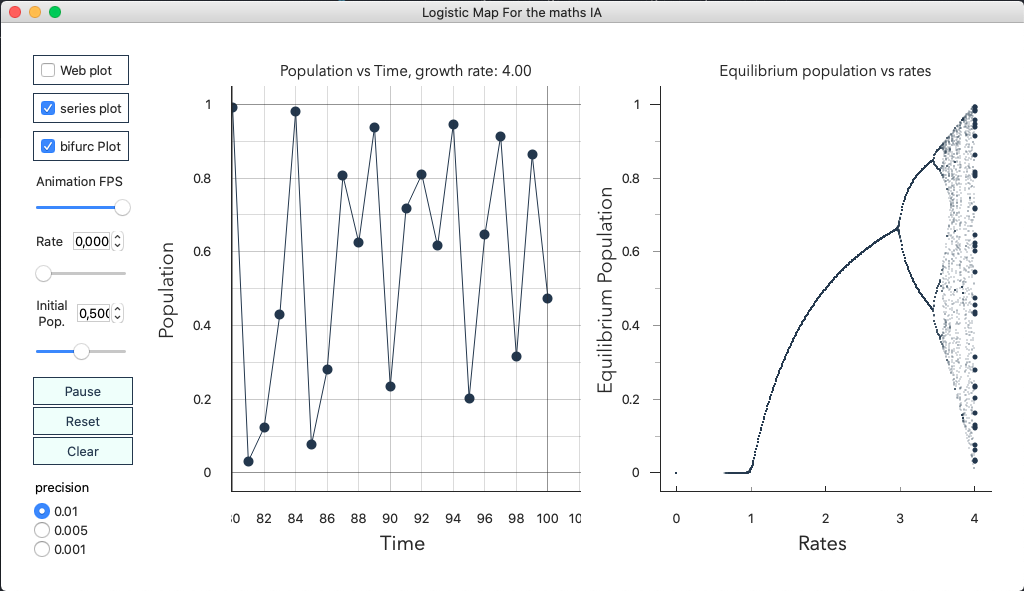
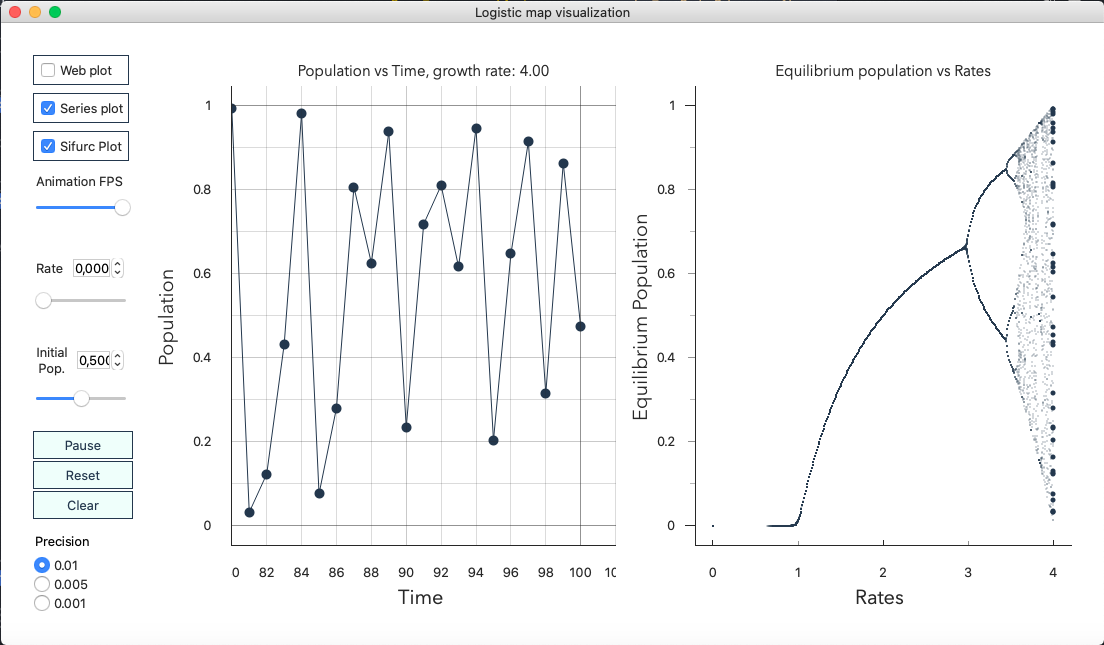
corrected spelling mistake

diff --git a/logistic_interactive.py b/logistic_interactive.py
@@ -607,7 +607,7 @@ class Widget(QWidget):
 
         self.win = pg.GraphicsWindow()
 
-        self.setWindowTitle("Logistic Map visualisation")
+        self.setWindowTitle("Logistic map visualization")
         self.horizontalLayout.addWidget(self.win)
 
         self.plots = [
